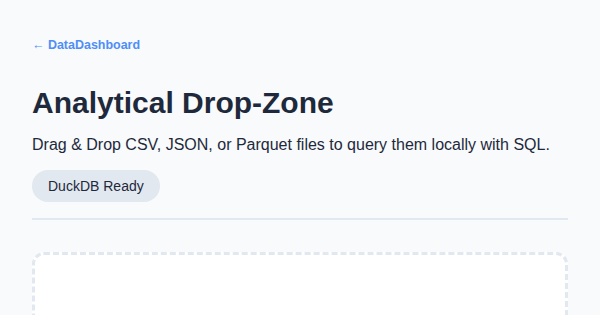
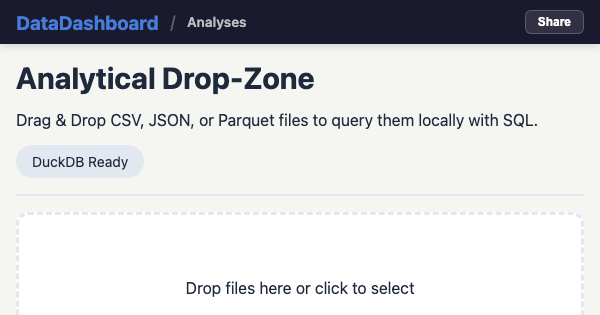
fix: resolve merge conflicts and ensure Python 3.9 compatibility

diff --git a/index.html b/index.html
@@ -7,7 +7,7 @@
   <meta property="og:type" content="website">
   <meta property="og:url" content="https://teakayah.github.io/dashboard/">
   <meta property="og:title" content="DataDashboard">
-  <meta property="og:description" content="4 analysises from various datasets and projects.">
+  <meta property="og:description" content="3 analysises from various datasets and projects.">
   <meta property="og:image" content="https://teakayah.github.io/dashboard/previews/index.png">
   <meta property="twitter:card" content="summary_large_image">
   <link rel="alternate" type="application/atom+xml" title="DataDashboard feed" href="https://teakayah.github.io/dashboard/feed.xml">
@@ -25,100 +25,142 @@
     .search-bar input:focus { border-color: var(--primary); box-shadow: 0 0 0 4px rgba(79,142,247,0.15); }
     main { padding: 48px 32px 64px; max-width: 1200px; margin: 0 auto; }
     .grid-label { font-size: 0.72rem; font-weight: 700; letter-spacing: 0.08em; text-transform: uppercase; color: #999; margin-bottom: 20px; display: flex; align-items: center; gap: 12px; }
-    .grid-label::after { content: ""; height: 1px; background: var(--border); flex: 1; }
-    .grid { display: grid; grid-template-columns: repeat(auto-fill, minmax(320px, 1fr)); gap: 24px; }
-    .card { display: flex; flex-direction: column; background: #fff; border-radius: 16px; padding: 24px; box-shadow: 0 1px 6px rgba(0,0,0,0.05); border-top: 4px solid var(--accent, var(--primary)); text-decoration: none; color: inherit; transition: transform 0.2s, box-shadow 0.2s; }
-    .card:hover { transform: translateY(-4px); box-shadow: 0 12px 24px rgba(0,0,0,0.1); }
-    .card-title { font-size: 1.05rem; font-weight: 700; color: #1a1a2e; line-height: 1.4; margin-bottom: 8px; }
-    .badge { font-size: 0.65rem; font-weight: 700; color: var(--primary); background: rgba(79,142,247,0.1); border-radius: 6px; padding: 3px 8px; margin-right: 4px; }
-    .card-desc { font-size: 0.85rem; color: var(--text-muted); line-height: 1.6; margin-bottom: 20px; }
-    .card-footer { display: flex; align-items: center; justify-content: space-between; margin-top: auto; padding-top: 16px; border-top: 1px solid var(--border); }
-    .card-date { font-size: 0.72rem; color: #bbb; font-weight: 600; }
-    .card-date span { color: #999; }
-    .card-link { font-size: 0.8rem; font-weight: 700; color: var(--accent, var(--primary)); }
+    .grid-label::after { content: ""; flex: 1; height: 1px; background: var(--border); }
+    .grid { display: grid; grid-template-columns: repeat(auto-fill, minmax(320px, 1fr)); gap: 32px; }
+    
+    .card { 
+      background: var(--card-bg); 
+      border: 1px solid var(--border); 
+      border-radius: 16px; 
+      padding: 24px; 
+      text-decoration: none; 
+      color: inherit; 
+      display: flex; 
+      flex-direction: column; 
+      transition: transform 0.2s, border-color 0.2s, box-shadow 0.2s;
+      box-shadow: var(--shadow);
+    }
+    .card:hover { transform: translateY(-4px); border-color: var(--accent); box-shadow: 0 12px 24px rgba(0,0,0,0.06); }
     .card.hidden { display: none; }
-    footer { text-align: center; font-size: 0.8rem; color: #bbb; padding: 0 32px 48px; }
-    footer a { color: #999; text-decoration: none; font-weight: 600; }
-    footer a:hover { color: var(--primary); }
-    @media (max-width: 600px) { header.hero { padding: 40px 20px 32px; } .grid { grid-template-columns: 1fr; } }
+    
+    .card-top { margin-bottom: 16px; }
+    .card-title { font-size: 1.15rem; font-weight: 700; color: var(--text); line-height: 1.3; margin-bottom: 8px; }
+    .badges { display: flex; flex-wrap: wrap; gap: 6px; }
+    .badge { font-size: 0.65rem; font-weight: 700; text-transform: uppercase; letter-spacing: 0.05em; padding: 4px 10px; border-radius: 20px; background: rgba(0,0,0,0.05); color: var(--text-muted); }
+    
+    .card-desc { font-size: 0.85rem; color: var(--text-muted); line-height: 1.5; margin-bottom: 24px; flex: 1; display: -webkit-box; -webkit-line-clamp: 3; -webkit-box-orient: vertical; overflow: hidden; }
+    
+    .card-footer { display: flex; align-items: center; justify-content: space-between; border-top: 1px solid var(--border); pt: 16px; margin-top: auto; padding-top: 16px; }
+    .card-date { font-size: 0.72rem; color: var(--text-dim); }
+    .card-date span { font-weight: 600; color: var(--text-muted); }
+    .card-link { font-size: 0.8rem; font-weight: 700; color: var(--primary); }
+
+    .empty { text-align: center; padding: 80px 0; color: var(--text-dim); }
+    
+    footer { text-align: center; padding: 48px; color: var(--text-dim); font-size: 0.8rem; border-top: 1px solid var(--border); margin-top: 64px; }
+
+    @media (max-width: 640px) {
+      header.hero { padding: 48px 24px 40px; }
+      header.hero h1 { font-size: 1.8rem; }
+      main { padding: 32px 20px; }
+      .grid { grid-template-columns: 1fr; gap: 20px; }
+    }
   </style>
 </head>
 <body>
-<header class="hero">
-  <h1>Data<span>Dashboard</span></h1>
-  <div class="header-sub">4 analysises</div>
-</header>
-<div class="search-bar">
-  <input id="search" type="search" placeholder="Search analyses and tools…" autocomplete="off">
-</div>
-<main>
-  <div class="grid-label">Available Analyses</div>
-  <div class="grid" id="grid">      <a class="card" href="nhpi_big6_comparison.html" style="--accent:#4f8ef7">
+  <header class="hero">
+    <h1>Data<span>Dashboard</span></h1>
+    <p class="header-sub">3 analysises</p>
+  </header>
+
+  <div class="search-bar">
+    <input type="text" id="search" placeholder="Search analyses, tags, or dates..." autocomplete="off">
+  </div>
+
+  <main>
+    <div class="grid-label">Available Analyses</div>
+    <div class="grid">
+            <a class="card" href="employment_rate_canada.html" style="--accent:#4f8ef7">
+        <div class="card-top">
+          <div class="card-title">Canadian Labour &amp; Fiscal Dashboard</div>
+          <div class="badges"><span class="badge">Economy</span></div>
+        </div>
+        
+        <div class="card-footer">
+          <div class="card-date">Last Updated: <span>2026-04-29</span></div>
+          <span class="card-link">Explore →</span>
+        </div>
+      </a>
+      <a class="card" href="nhpi_big6_comparison.html" style="--accent:#2ecc71">
         <div class="card-top">
           <div class="card-title">NHPI — Big-6 City Comparison (Vancouver · Toronto · Montréal · Edmonton · Calgary · Ottawa)</div>
-          <div class="badges"><span class="badge">Chart.js</span></div>
+          <div class="badges"></div>
         </div>
-        <p class="card-desc">Statistics Canada · Table 18-10-0205-01 · Base: December 2016 = 100</p>
+        
         <div class="card-footer">
-          <div class="card-date">Last Updated: <span>Apr 2026</span></div>
+          <div class="card-date">Last Updated: <span>2026-04-29</span></div>
           <span class="card-link">Explore →</span>
         </div>
       </a>
-      <a class="card" href="flood_risk_gatineau_ottawa.html" style="--accent:#ff6384">
+      <a class="card" href="flood_risk_gatineau_ottawa.html" style="--accent:#f39c12">
         <div class="card-top">
           <div class="card-title">Ottawa-Gatineau Flood Risk — Station 02KF005</div>
-          <div class="badges"><span class="badge">Chart.js</span></div>
+          <div class="badges"><span class="badge">Environment</span></div>
         </div>
-        <p class="card-desc">Ottawa River at Britannia (02KF005) &middot; Live &amp; Historical &middot; Water Survey of Canada</p>
+        
         <div class="card-footer">
-          <div class="card-date">Last Updated: <span>Apr 2026</span></div>
+          <div class="card-date">Last Updated: <span>2026-04-29</span></div>
           <span class="card-link">Explore →</span>
         </div>
       </a>
-      <a class="card" href="employment_rate_canada.html" style="--accent:#4bc0c0">
-        <div class="card-top">
-          <div class="card-title">Canadian Labour & Fiscal Dashboard</div>
-          <div class="badges"><span class="badge">Chart.js</span></div>
-        </div>
-        <p class="card-desc">Statistics Canada &mdash; Seasonally adjusted where applicable &middot; Total gender &middot; Provincial governments</p>
-        <div class="card-footer">
-          <div class="card-date">Last Updated: <span>Apr 2026</span></div>
-          <span class="card-link">Explore →</span>
-        </div>
-      </a>
-      <a class="card" href="dropzone.html" style="--accent:#ff9f40">
-        <div class="card-top">
-          <div class="card-title">Analytical Drop-Zone</div>
-          <div class="badges"><span class="badge">Chart.js</span><span class="badge">DuckDB</span><span class="badge">Grid.js</span></div>
-        </div>
-        <p class="card-desc">Local-first SQL analysis for CSV, JSON, and Parquet files using DuckDB-Wasm.</p>
-        <div class="card-footer">
-          <div class="card-date">Last Updated: <span>Apr 2026</span></div>
-          <span class="card-link">Explore →</span>
-        </div>
-      </a></div>
-  
-</main>
-<footer>
-  <a href="https://github.com/Teakayah/dashboard" target="_blank" rel="noopener noreferrer">View on GitHub</a>
-  &nbsp;·&nbsp;
-  <a href="https://teakayah.github.io/dashboard/feed.xml">RSS Feed</a>
-</footer>
+    </div>
+    
+  </main>
+
+  <footer>
+    &copy; 2026 DataDashboard &middot; Built with Python &amp; DuckDB
+  </footer>
 <script>
   const input = document.getElementById('search');
   const cards = document.querySelectorAll('.card');
+
+  function highlight(text, query) {
+    if (!query) return text;
+    const regex = new RegExp(`(${query})`, 'gi');
+    return text.replace(regex, '<mark style="background: #ffeb3b; padding: 0 2px; border-radius: 2px; color: #000;">$1</mark>');
+  }
+
   input.addEventListener('input', () => {
     const q = input.value.trim().toLowerCase();
     cards.forEach(c => {
+      const titleEl = c.querySelector('.card-title');
+      const descEl = c.querySelector('.card-desc');
+
+      if (!c.dataset.origTitle) c.dataset.origTitle = titleEl.innerHTML;
+      if (descEl && !c.dataset.origDesc) c.dataset.origDesc = descEl.innerHTML;
+
       const text = c.textContent.toLowerCase();
-      c.classList.toggle('hidden', q !== '' && !text.includes(q));
+      const matches = q === '' || text.includes(q);
+      c.classList.toggle('hidden', !matches);
+
+      if (q !== '' && matches) {
+        titleEl.innerHTML = highlight(c.dataset.origTitle, q);
+        if (descEl) descEl.innerHTML = highlight(c.dataset.origDesc, q);
+      } else {
+        titleEl.innerHTML = c.dataset.origTitle || titleEl.innerHTML;
+        if (descEl) descEl.innerHTML = c.dataset.origDesc || (descEl ? descEl.innerHTML : '');
+      }
     });
   });
 </script>
 <script>
   if ('serviceWorker' in navigator) {
     window.addEventListener('load', () => {
-      navigator.serviceWorker.register('/sw.js');
+      navigator.serviceWorker.register('/sw.js').then(reg => {
+        console.log('SW registered:', reg);
+      }).catch(err => {
+        console.log('SW registration failed:', err);
+      });
     });
   }
 </script>

diff --git a/employment_rate_canada.html b/employment_rate_canada.html
@@ -65,12 +65,9 @@ footer{font-size:0.7rem;color:#bbb;text-align:center;margin-top:18px;font-style:
   <meta property="twitter:card" content="summary_large_image">
   <meta property="twitter:image" content="https://teakayah.github.io/dashboard/previews/employment_rate_canada.png">
 
-<<<<<<< HEAD
   <link rel="icon" href="https://teakayah.github.io/dashboard/favicon.ico" type="image/x-icon">
-=======
   <link rel="stylesheet" href="assets/theme.css">
   <script src="assets/fullscreen.js"></script>
->>>>>>> feature/local-drop-zone
 </head>
 <body>
 <!-- unified-header-inject -->

diff --git a/nhpi_big6_comparison.html b/nhpi_big6_comparison.html
@@ -66,12 +66,9 @@
   <meta property="twitter:card" content="summary_large_image">
   <meta property="twitter:image" content="https://teakayah.github.io/dashboard/previews/nhpi_big6_comparison.png">
 
-<<<<<<< HEAD
   <link rel="icon" href="https://teakayah.github.io/dashboard/favicon.ico" type="image/x-icon">
-=======
   <link rel="stylesheet" href="assets/theme.css">
   <script src="assets/fullscreen.js"></script>
->>>>>>> feature/local-drop-zone
 </head>
 <body>
 <!-- unified-header-inject -->
